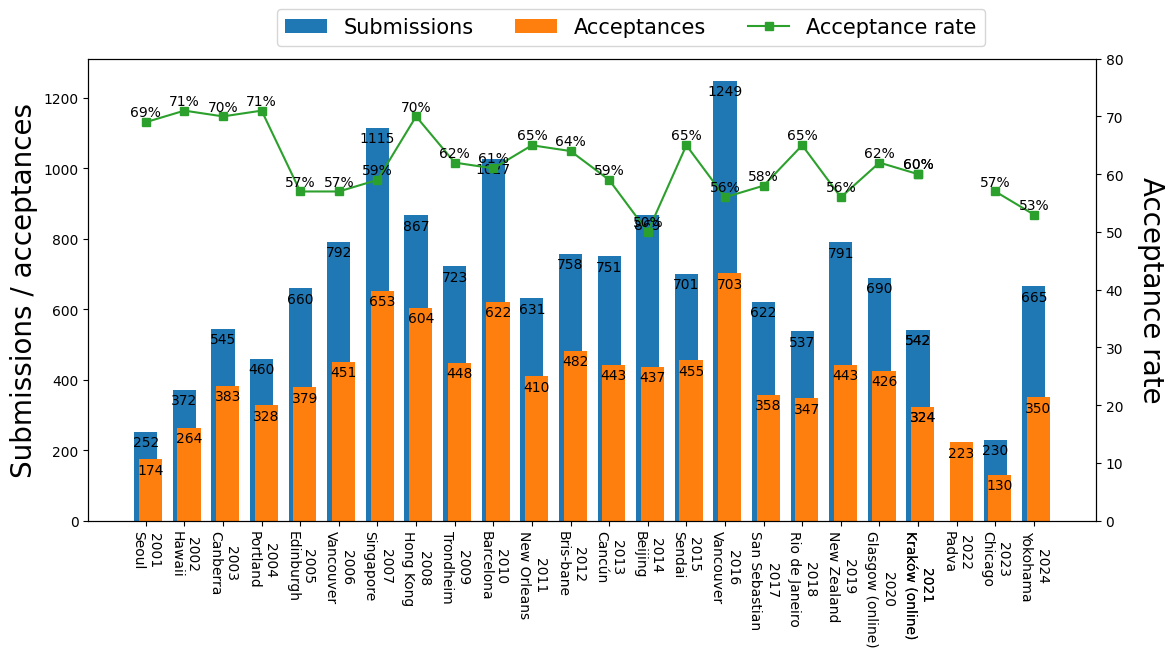
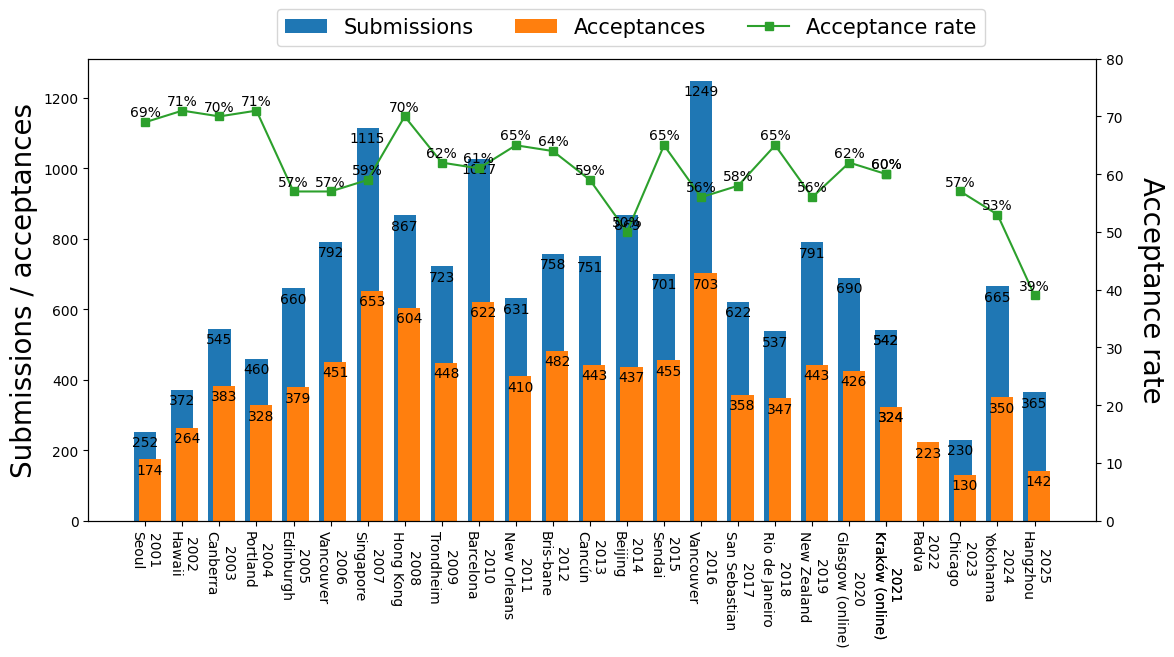
update stats for cec

Changed region(s): [[0.092, 0.1218, 0.9199, 0.9741], [0.7973, 0.274, 0.8893, 0.3349]]

diff --git a/index.md b/index.md
@@ -188,6 +188,7 @@ CEC is held as part of WCCI in even years.
 | 2022 | Na        | 223        | Na             | Padva        | 
 | 2023 | 230        | 130        | 57%             | Chicago        | 
 | 2024 | 665        | 350        | 53%             | Yokohama        | 
+| 2025 | 365        | 142        | 39%             | Hangzhou        | 
 
 [![CEC](fig/stats_cec.png)](fig/stats_cec.png)
 
